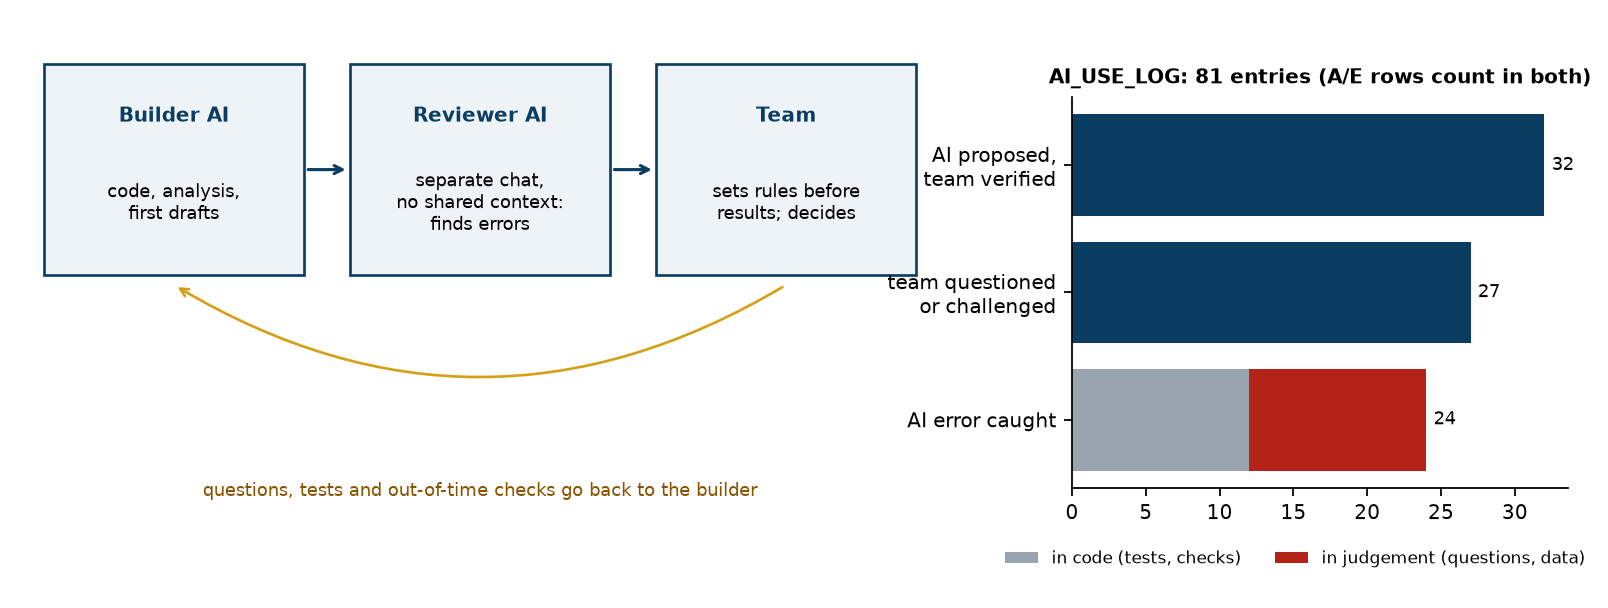
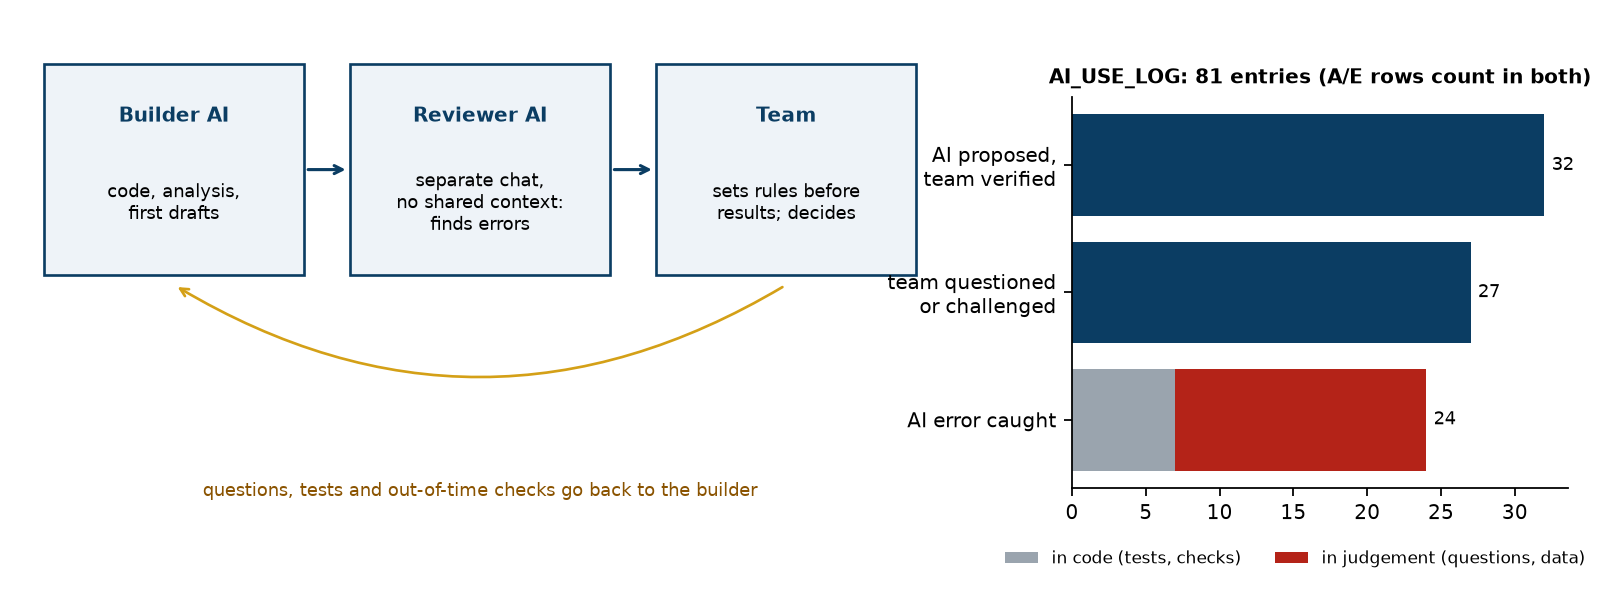
Report figures; AI errors classified by the team (7 code, 17 judgement); AI log rows 54, 71-73 restored

Changed region(s): [[0.7152, 0.5938, 0.7774, 0.7812]]

diff --git a/tools/figures.py b/tools/figures.py
@@ -134,6 +134,11 @@ def fig2():
 
 # ------------------------------------------------------------------ figure 3
 CODE_WORDS = r"code|script|test|notebook|label|column|file|kernel|function|parquet|csv|bug|crash"
+# AI errors classified by the team (Oct 22): "code" = implementation, caught by tests, checks or running it;
+# "judgement" = assumptions, rules, feature design, hypotheses and predictions, caught by questions and data.
+# Entries not listed fall back to the keyword rule above.
+ERROR_KIND = {**{n: "code" for n in [7, 26, 31, 37, 60, 69, 82]},
+              **{n: "judgement" for n in [25, 33, 36, 40, 41, 42, 44, 46, 47, 50, 53, 56, 57, 61, 68, 76, 79]}}
 
 
 def ai_log_counts(path=ROOT / "AI_USE_LOG.md"):
@@ -145,8 +150,8 @@ def ai_log_counts(path=ROOT / "AI_USE_LOG.md"):
         for t in cells[1].split("/"):
             recs.append({"n": int(cells[0]), "type": t, "text": " ".join(cells[2:])})
     d = pd.DataFrame(recs)
-    d["error_kind"] = np.where(d.type != "E", "",
-                               np.where(d.text.str.contains(CODE_WORDS, case=False), "code", "judgement"))
+    guess = np.where(d.text.str.contains(CODE_WORDS, case=False), "code", "judgement")
+    d["error_kind"] = np.where(d.type != "E", "", d.n.map(ERROR_KIND).fillna(pd.Series(guess, index=d.index)))
     return d
 
 
